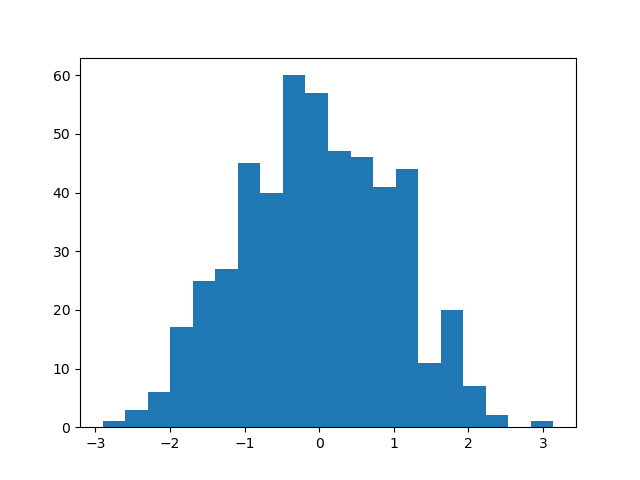
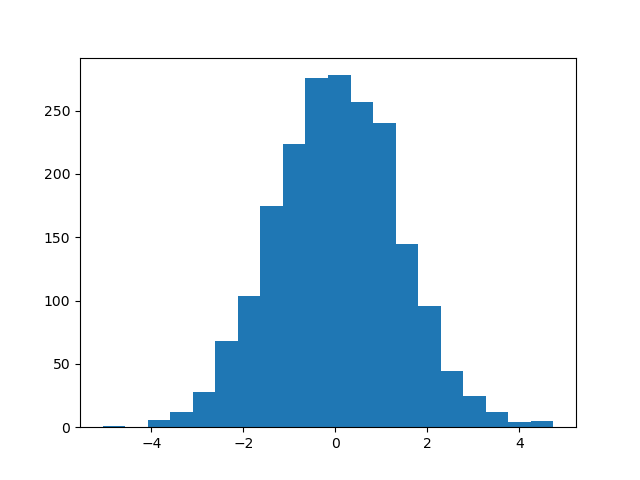
generic commit

diff --git a/scripts/fit_kernel.py b/scripts/fit_kernel.py
@@ -37,7 +37,7 @@ def sample_2normal(N = 100, d = 2):
 
 
 
-def sample_uniform(N = 100,  d = 2, l = -1, h = 1):
+def sample_uniform(N = 100,  d = 2, l = -1.5, h = 1.5):
     Y = []
     for i in range(d):
         yi = np.random.uniform(l,h, N)
@@ -103,9 +103,9 @@ def sample_hmap(sample, save_loc, bins = 20, d = 2):
 
 
 def run():
-    X = sample_uniform(N = 500, d = 1)
-    Y = sample_normal(N = 500, d = 1)
-    X_tilde = sample_uniform(1000, d=1)
+    X = sample_uniform(N = 2000, d = 1)
+    Y = sample_2normal(N = 2000, d = 1)
+    X_tilde = sample_uniform(2000, d=1)
 
     #l = l_scale(torch.tensor(X))
 
